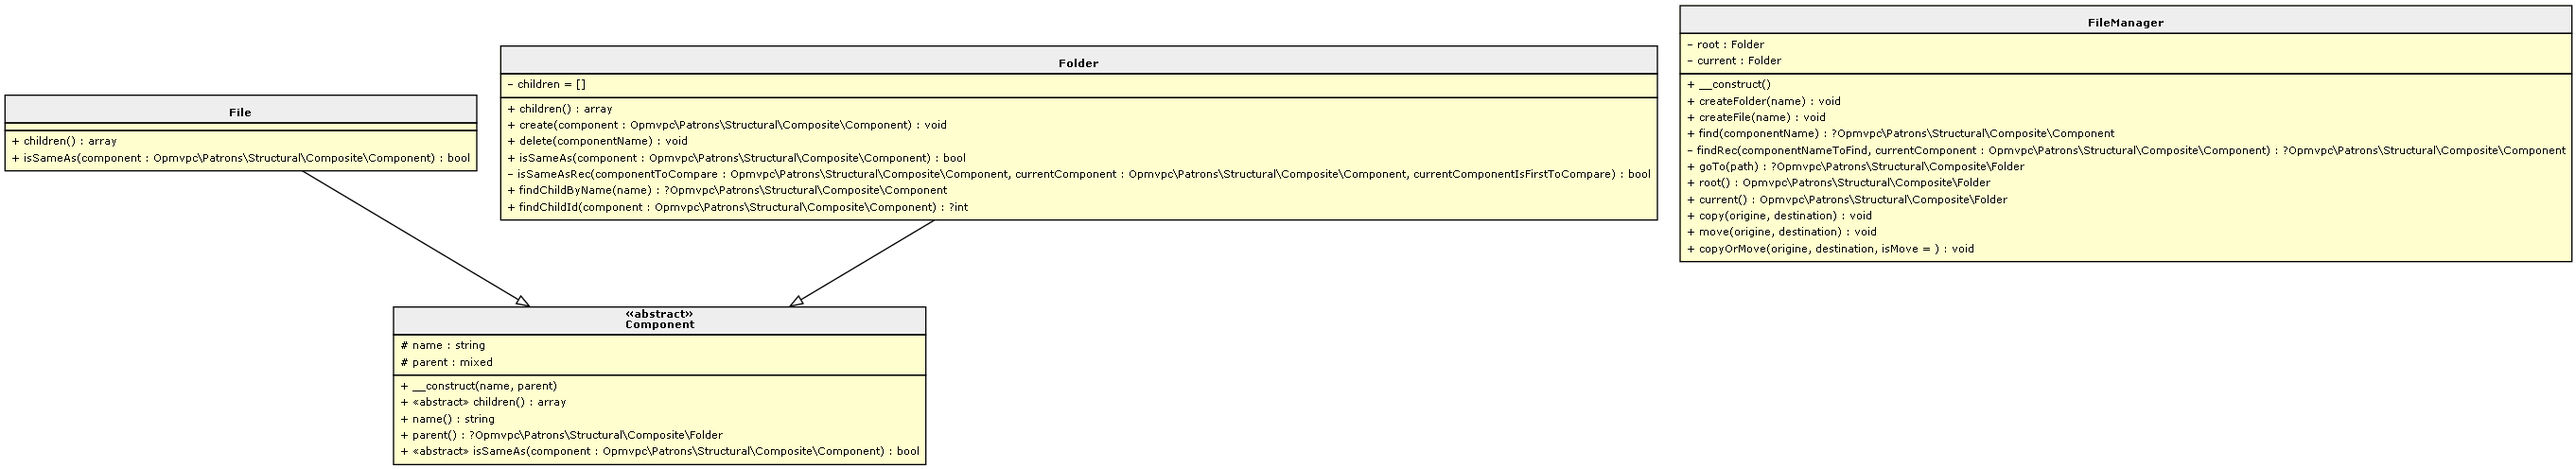
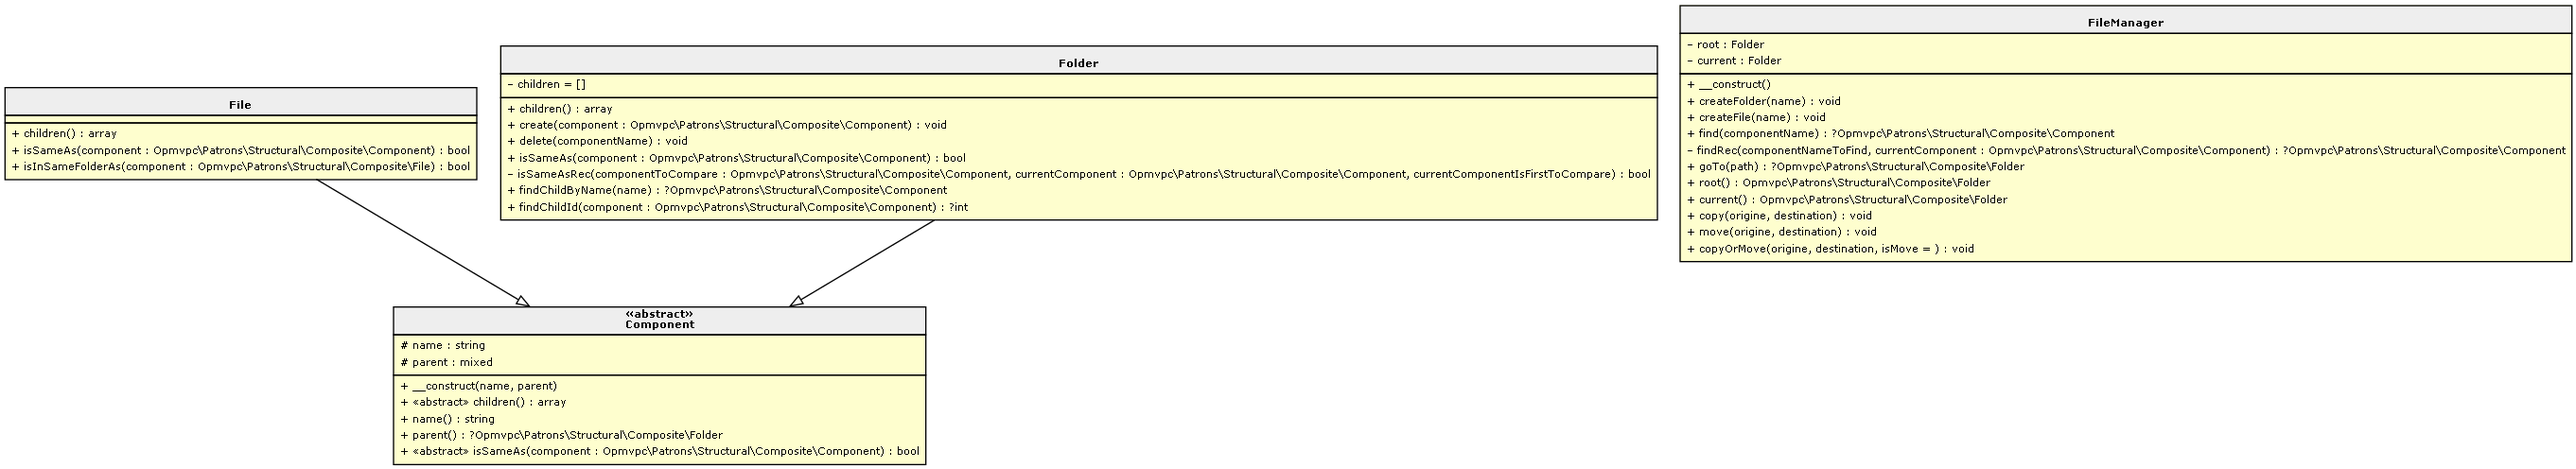
nouvelle méthode inSameFolderAs

Changed region(s): [[0.0, 0.2419, 0.1873, 0.3931], [0.0, 0.1815, 0.1873, 0.2117]]

diff --git a/tests/Structural/Composite/FileManagerTest.php b/tests/Structural/Composite/FileManagerTest.php
@@ -372,4 +372,30 @@ class FileManagerTest extends TestCase
         $fileManager->createFolder('coucou');
         $this->assertFalse($fileManager->find('first')->isSameAs($fileManager->find('second')));
     }
+
+    /** @test */
+    public function test_is_in_same_folder_as_file()
+    {
+        $fileManager = new FileManager();
+        $fileManager->createFolder('parent');
+        $fileManager->goTo('parent');
+        $fileManager->createFile('test.jpg');
+        $fileManager->createFile('test2.jpg');
+        $jpg1 = $fileManager->current()->children()[0];
+        $jpg2 = $fileManager->current()->children()[1];
+        $this->assertTrue($jpg1->isInSameFolderAs($jpg2));
+    }
+
+    /** @test */
+    public function test_is_in_same_folder_as_file_fail()
+    {
+        $fileManager = new FileManager();
+        $fileManager->createFile('test.jpg');
+        $fileManager->createFolder('parent');
+        $fileManager->goTo('parent');
+        $fileManager->createFile('test2.jpg');
+        $jpg1 = $fileManager->root()->children()[0];
+        $jpg2 = $fileManager->current()->children()[0];
+        $this->assertFalse($jpg1->isInSameFolderAs($jpg2));
+    }
 }

diff --git a/src/Structural/Composite/File.php b/src/Structural/Composite/File.php
@@ -13,6 +13,11 @@ class File extends Component
 
     public function isSameAs(Component $component): bool
     {
-        return $this->name === $component->name;
+        return $this->name === $component->name && get_class($component) === File::class;
+    }
+
+    public function isInSameFolderAs(File $component): bool
+    {
+        return $this->parent === $component->parent();
     }
 }
